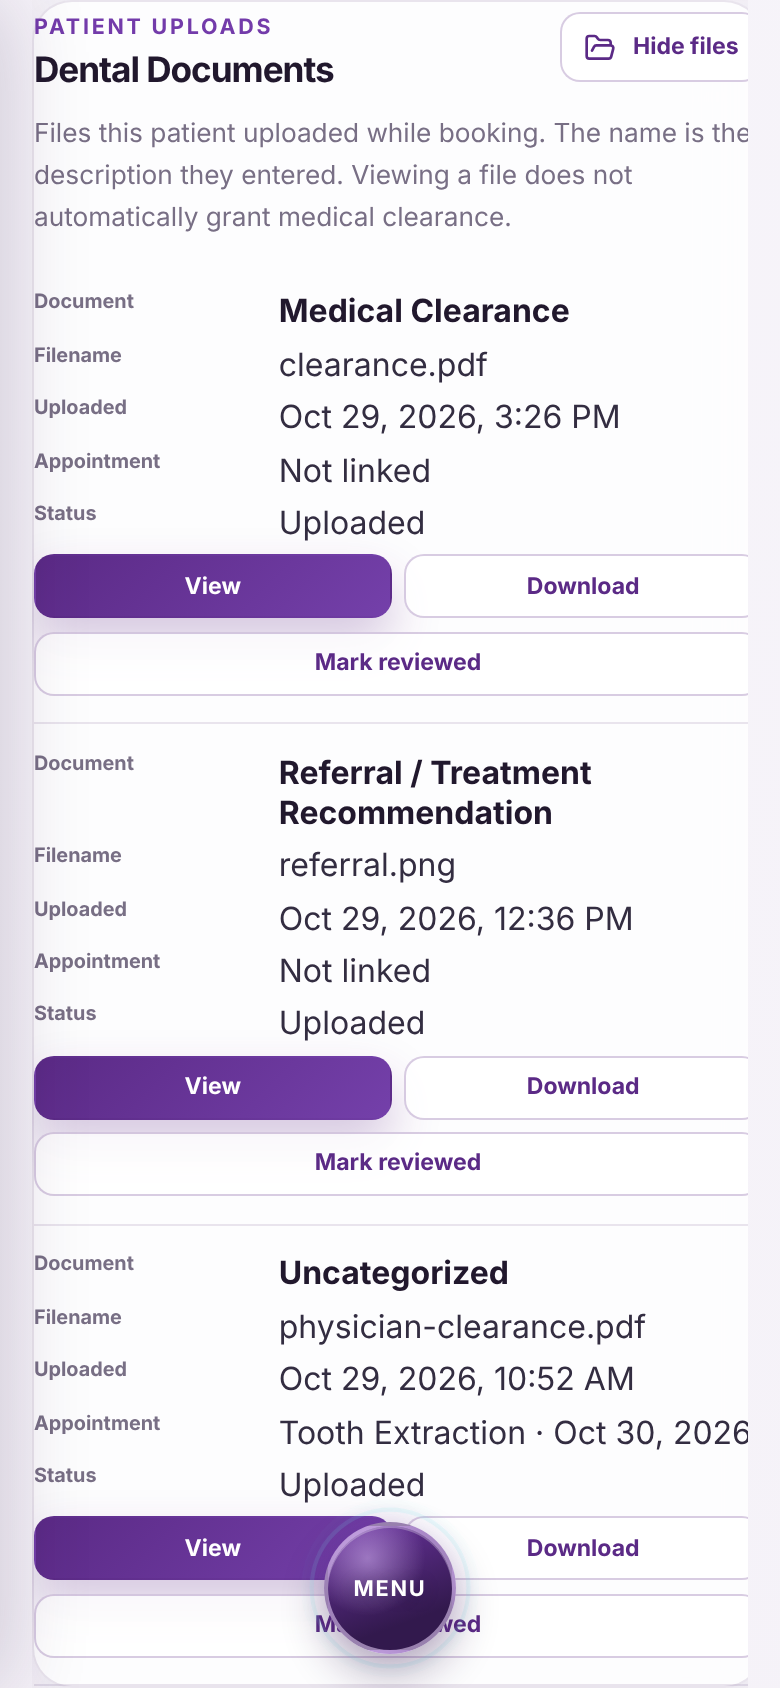
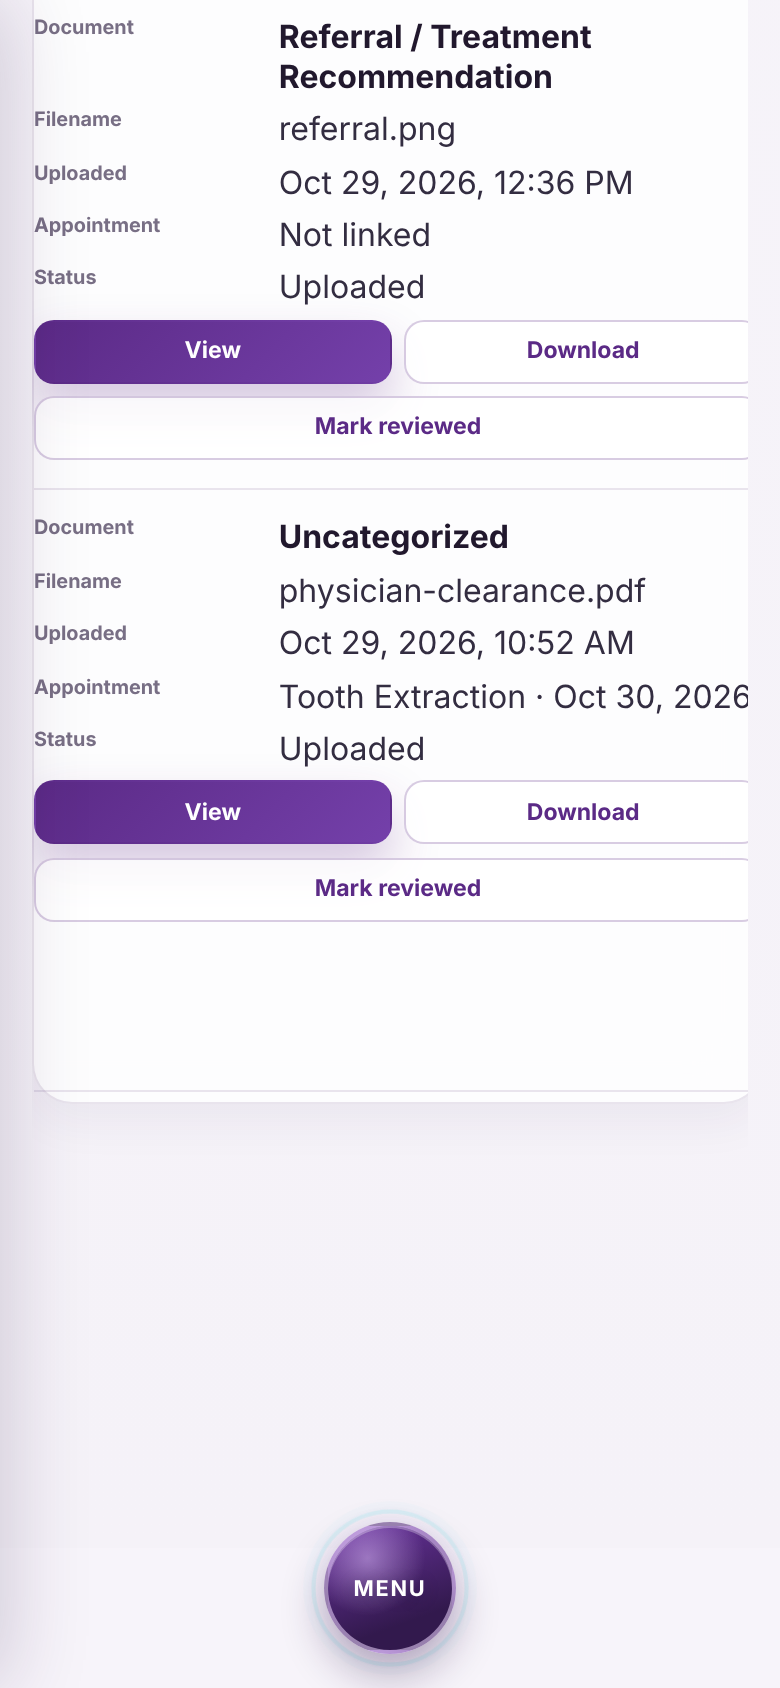
Give mobile Dental Documents space above the circular menu.
Keep View and Download on one row, and keep the last file actions reachable when the list is scrolled to the end.

diff --git a/frontend/src/index.css b/frontend/src/index.css
@@ -2849,6 +2849,29 @@ strong {
 }
 
 @media (max-width: 720px) {
+  .dentist-patient-record-page {
+    padding-bottom: calc(6.25rem + env(safe-area-inset-bottom, 0px));
+  }
+
+  .uploaded-files-folder.is-open {
+    padding-bottom: 0.35rem;
+  }
+
+  .dentist-medical-docs .data-table tr:last-child {
+    padding-bottom: 5.25rem;
+  }
+
+  .dental-doc-preview {
+    width: min(100%, calc(100vw - 1.25rem));
+    max-height: min(88vh, 760px);
+  }
+
+  .dental-doc-preview__image,
+  .dental-doc-preview__frame {
+    min-height: 38vh;
+    max-height: 46vh;
+  }
+
   .dentist-medical-docs .table-wrap {
     overflow: visible;
   }
